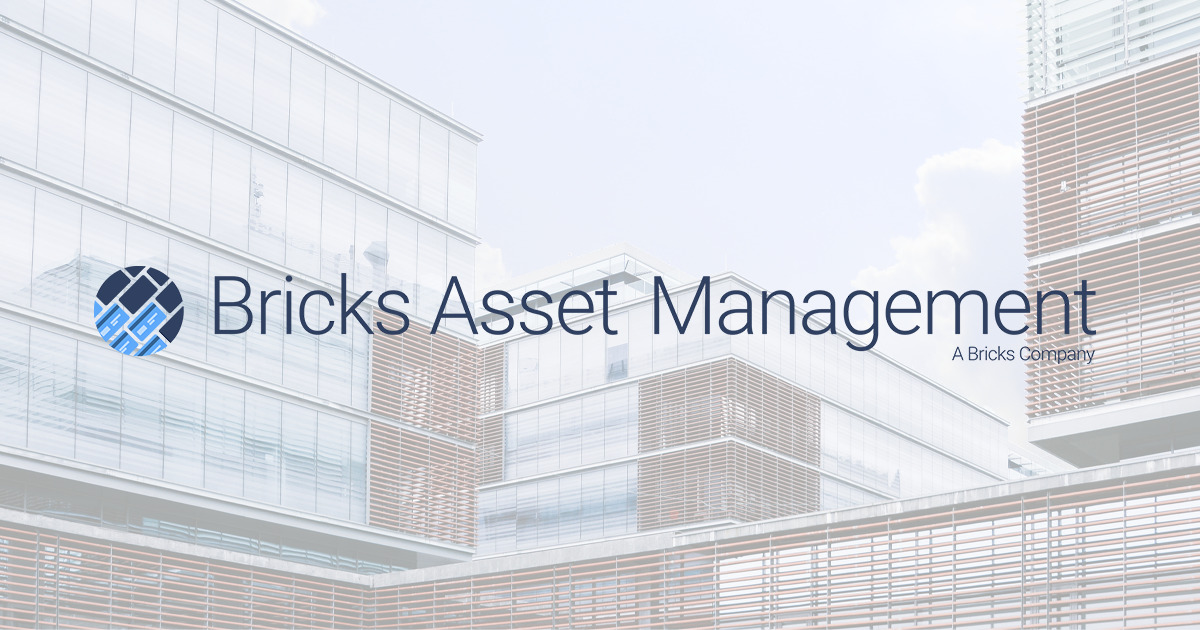
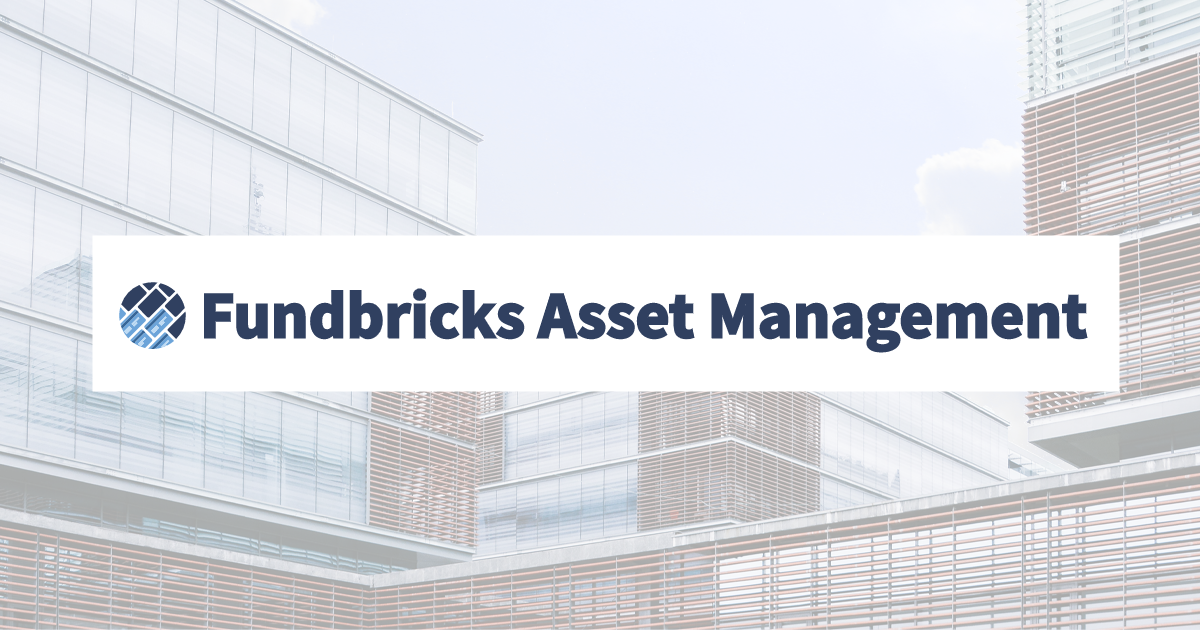
Rename to fb

Changed region(s): [[0.0617, 0.3619, 0.9558, 0.6333], [0.7708, 0.6032, 0.8017, 0.6333], [0.37, 0.3619, 0.4008, 0.3921]]

diff --git a/index.html b/index.html
@@ -2,18 +2,18 @@
 <html>
 
 <head>
-  <title>Bricks Asset Management | Her får du mere ud af din formue</title>
+  <title>Fundbricks Asset Management | Her får du mere ud af din formue</title>
   <meta charset="utf-8" />
   <meta name="viewport" content="width=device-width,initial-scale=1" />
   <meta name="theme-color" content="#2e8ffa" />
   <meta property="og:image" content="https://res.cloudinary.com/dhmx9ozrh/image/upload/v1606474127/investorpres_bk2l9v.png" />
-  <meta property="og:site_name" content="Bricks Asset Management" />
+  <meta property="og:site_name" content="Fundbricks Asset Management" />
   <meta property="og:image:width" content="1200" />
   <meta property="og:image:height" content="630" />
   <meta property="og:description"
-    content="Bricks Asset Management forvalter alternative investeringsfonde med særlig ekspertise indenfor etablering og forvaltning af investeringsfonde, som investerer i fast ejendom og byggefinansiering." />
+    content="Fundbricks Asset Management forvalter alternative investeringsfonde med særlig ekspertise indenfor etablering og forvaltning af investeringsfonde, som investerer i fast ejendom og byggefinansiering." />
   <meta name="description"
-    content="Bricks Asset Management forvalter alternative investeringsfonde med særlig ekspertise indenfor etablering og forvaltning af investeringsfonde, som investerer i fast ejendom og byggefinansiering." />
+    content="Fundbricks Asset Management forvalter alternative investeringsfonde med særlig ekspertise indenfor etablering og forvaltning af investeringsfonde, som investerer i fast ejendom og byggefinansiering." />
   <meta property="og:url" content="https://www.bricksassetmanagement.com" />
   <meta property="og:image" content="https://www.bricksassetmanagement.com/images/bam-open-graph.png?v=1" />
   <meta property="og:image:secure_url" content="https://www.bricksassetmanagement.com/images/bam-open-graph.png?v=1" />
@@ -324,7 +324,7 @@
     <header class="header">
       <div class="container-lrg">
         <div class="flex col-12 spread">
-          <a class="logo logo__black"><img src="images/logo_bam.svg" alt="Bricks Asset ManagementCompany Logo" /></a>
+          <a class="logo logo__black"><img src="images/fbam-long.svg" alt="Fundbricks Asset ManagementCompany Logo" /></a>
 
           <div class="menu">
             <a href="#features" class="nav-link secondary-color mr0">Fordele</a>
@@ -342,7 +342,7 @@
             Her får du mere ud af din formue - vi giver renterne tilbage til investorerne.
           </h1>
           <p class="span secondary-color mt20">
-            Bricks Asset Management indgår i Bricks Holding koncernen, som beskæftiger sig med finansiering og udvikling af ejendomsprojekter i Danmark, med fokus på boligejendomme i store og mellemstore danske byer, hvor der er efterspørgsel på flere og/eller mere moderne boliger, herunder seniorboligfællesskaber og ungdomsboliger.
+            Fundbricks Asset Management indgår i Bricks Holding koncernen, som beskæftiger sig med finansiering og udvikling af ejendomsprojekter i Danmark, med fokus på boligejendomme i store og mellemstore danske byer, hvor der er efterspørgsel på flere og/eller mere moderne boliger, herunder seniorboligfællesskaber og ungdomsboliger.
           </p>
           <p class="span secondary-color mt20">
             Investeringer via Bricks selskaberne har til formål at tilbyde et alternativ eller et supplement til din nuværende investeringsportefølje. Vi tilbyder at forrente din investering med en fornuftig rente og relativ kort løbetid. Hent investor præsentationen via fanebladet øverst ”fonde” eller benyt kontakt fanen for yderligere information. 
@@ -378,7 +378,7 @@
         </p>
         <br/>
         <p class="paragraph gray">
-          Bricks Asset Management er registreret hos Finanstilsynet FT nr. 23182, som forvalter af alternative investeringsfonde (FAIF) og med særlig ekspertise indenfor etablering og forvaltning af investeringsfonde, som investerer i fast ejendom og byggefinansiering.
+          Fundbricks Asset Management er registreret hos Finanstilsynet FT nr. 23182, som forvalter af alternative investeringsfonde (FAIF) og med særlig ekspertise indenfor etablering og forvaltning af investeringsfonde, som investerer i fast ejendom og byggefinansiering.
         </p>
         <br/>
         <p class="paragraph gray">
@@ -415,7 +415,7 @@
           </svg></i>
         <h3 class="bold primary-color">Højt afkast, kort løbetid og god sikkerhed</h3>
         <p class="paragraph secondary-color">
-          Bricks Asset Management etablerer og forvalter alternative investeringsfonde, som finansierer og investerer i solide danske ejendomsprojekter. Fondene rejser kapital via udstedelse af konvertible obligationer med en høj, fast rente på 7% p.a. 
+          Fundbricks Asset Management etablerer og forvalter alternative investeringsfonde, som finansierer og investerer i solide danske ejendomsprojekter. Fondene rejser kapital via udstedelse af konvertible obligationer med en høj, fast rente på 7% p.a. 
         </p>
         <br/>
         <p class="paragraph secondary-color">
@@ -430,7 +430,7 @@
           </svg></i>
         <h3 class="bold primary-color">Risikospredning</h3>
         <p class="paragraph secondary-color">
-          Investering i en af Bricks Asset Managements fonde giver investor mulighed for at sprede sin risiko i forhold til investering i eksempelvis aktier og statsobligationer, samtidig med at investor opnår et højt fast afkast. Endvidere opnår investor risikospredning ved, at fondene udlåner til en række solide danske ejendoms-projekter og dermed spredes fondens risiko på flere ejendomsprojekter. 
+          Investering i en af Fundbricks Asset Managements fonde giver investor mulighed for at sprede sin risiko i forhold til investering i eksempelvis aktier og statsobligationer, samtidig med at investor opnår et højt fast afkast. Endvidere opnår investor risikospredning ved, at fondene udlåner til en række solide danske ejendoms-projekter og dermed spredes fondens risiko på flere ejendomsprojekter. 
         </p>
         <br/>
         <p class="paragraph secondary-color">
@@ -485,7 +485,7 @@
             Fonde
           </h1>
           <p class="paragraph mt20 gray">
-            Bricks Asset Management fokuserer udelukkende på etablering og forvaltning af fonde baseret på fast ejendom og med særlig fokus på byggekreditfonde, som udlåner kapital til solide ejendomsudviklingsprojekter indenfor enkeltstående boliger og boligejendomme
+            Fundbricks Asset Management fokuserer udelukkende på etablering og forvaltning af fonde baseret på fast ejendom og med særlig fokus på byggekreditfonde, som udlåner kapital til solide ejendomsudviklingsprojekter indenfor enkeltstående boliger og boligejendomme
           </p>
           <p class="paragraph mt20 gray">
             Fondene henvender sig udelukkende til ”professionelle” og ”semi-professionelle” investorer og  vil derfor have en minimumstegning på 100.000 EUR eller mere.
@@ -554,7 +554,7 @@
                 <div class="content__gdpr">
                   <label> Marketingtilladelser </label>
                   <p class="mini mt20 gray mb10">
-                    Vælg alle de måder, du gerne vil høre fra Bricks Asset Management: 
+                    Vælg alle de måder, du gerne vil høre fra Fundbricks Asset Management: 
                   </p>
                   
                     <fieldset class="mc_fieldset gdprRequired mc-field-group border-none" name="interestgroup_field">
@@ -608,7 +608,7 @@
     <div class="container text-center mb35">
       <h3 class="heading primary-color">Erfarent Management Team</h3>
       <p class="paragraph secondary-color" style="color: #202020">
-        Bricks Asset Management ledes og drives i det daglige af et meget erfarent management team bestående af 4 seniorprofiler med tilsammen mere end 100 års erfaring indenfor ejendomme, finansiering, jura, bank, investeringsrådgivning, compliance, formidling og forvaltning af investeringer og investeringsfonde. 
+        Fundbricks Asset Management ledes og drives i det daglige af et meget erfarent management team bestående af 4 seniorprofiler med tilsammen mere end 100 års erfaring indenfor ejendomme, finansiering, jura, bank, investeringsrådgivning, compliance, formidling og forvaltning af investeringer og investeringsfonde. 
       </p>
       <br/>
       <p class="paragraph secondary-color" style="color: #202020">
@@ -701,7 +701,7 @@
       </div>
       <div class="mt50">
         <p class="span secondary-color">
-          Bricks Asset Management APS
+          Fundbricks Asset Management ApS
         </p>
         <p class="span secondary-color">
           Århusgade 88, 3., 2100 Copenhagen

diff --git a/css/main.css b/css/main.css
@@ -26,7 +26,7 @@
   margin: 0 15px;
 }
 .logo img {
-  height: 44px;
+  height: 64px;
   display: inherit;
 }
 /*Text*/
